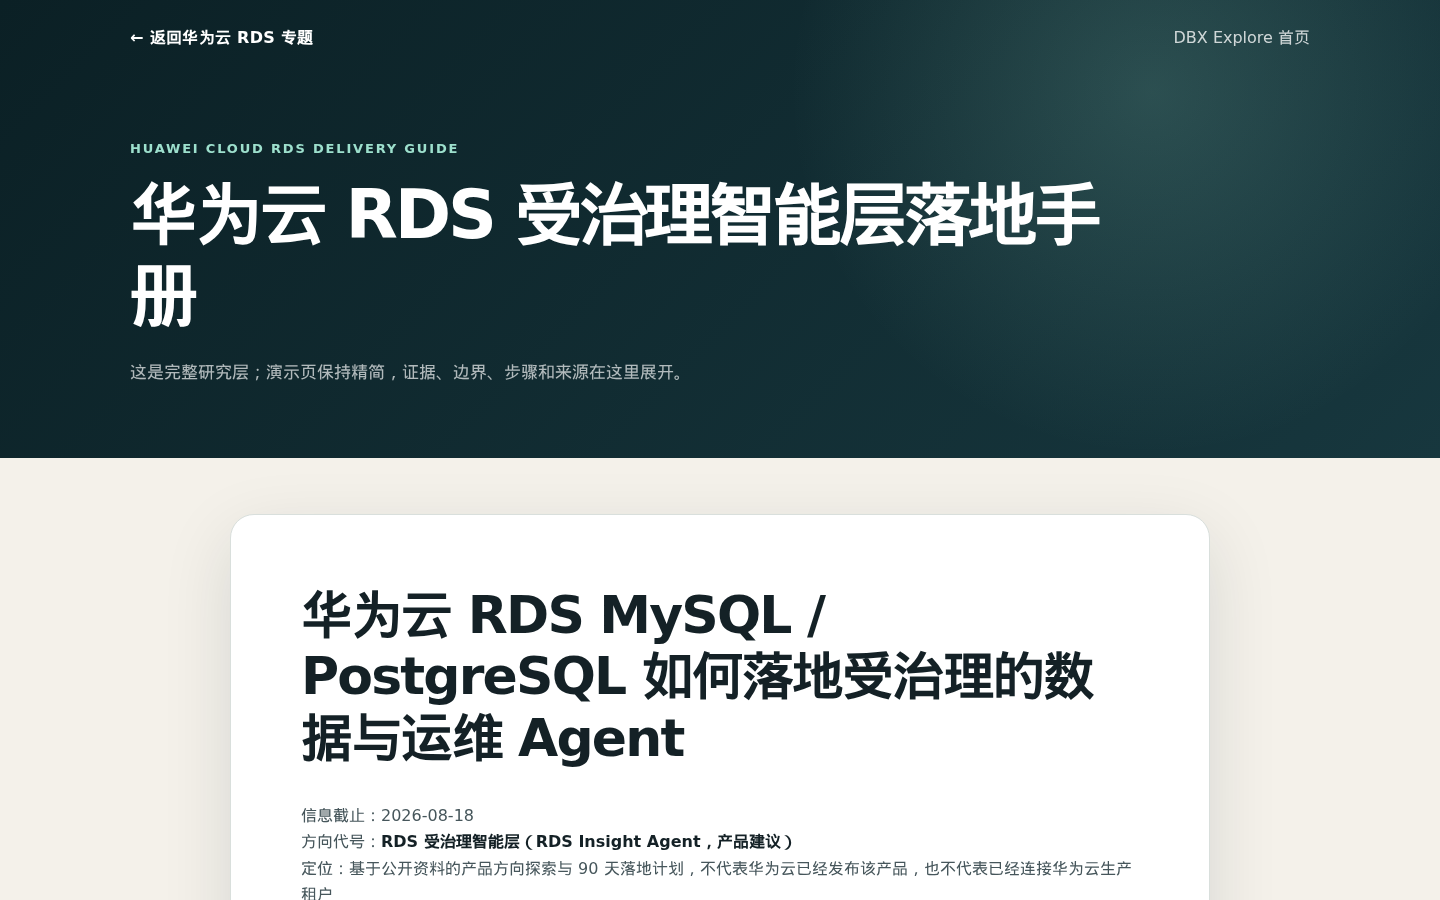
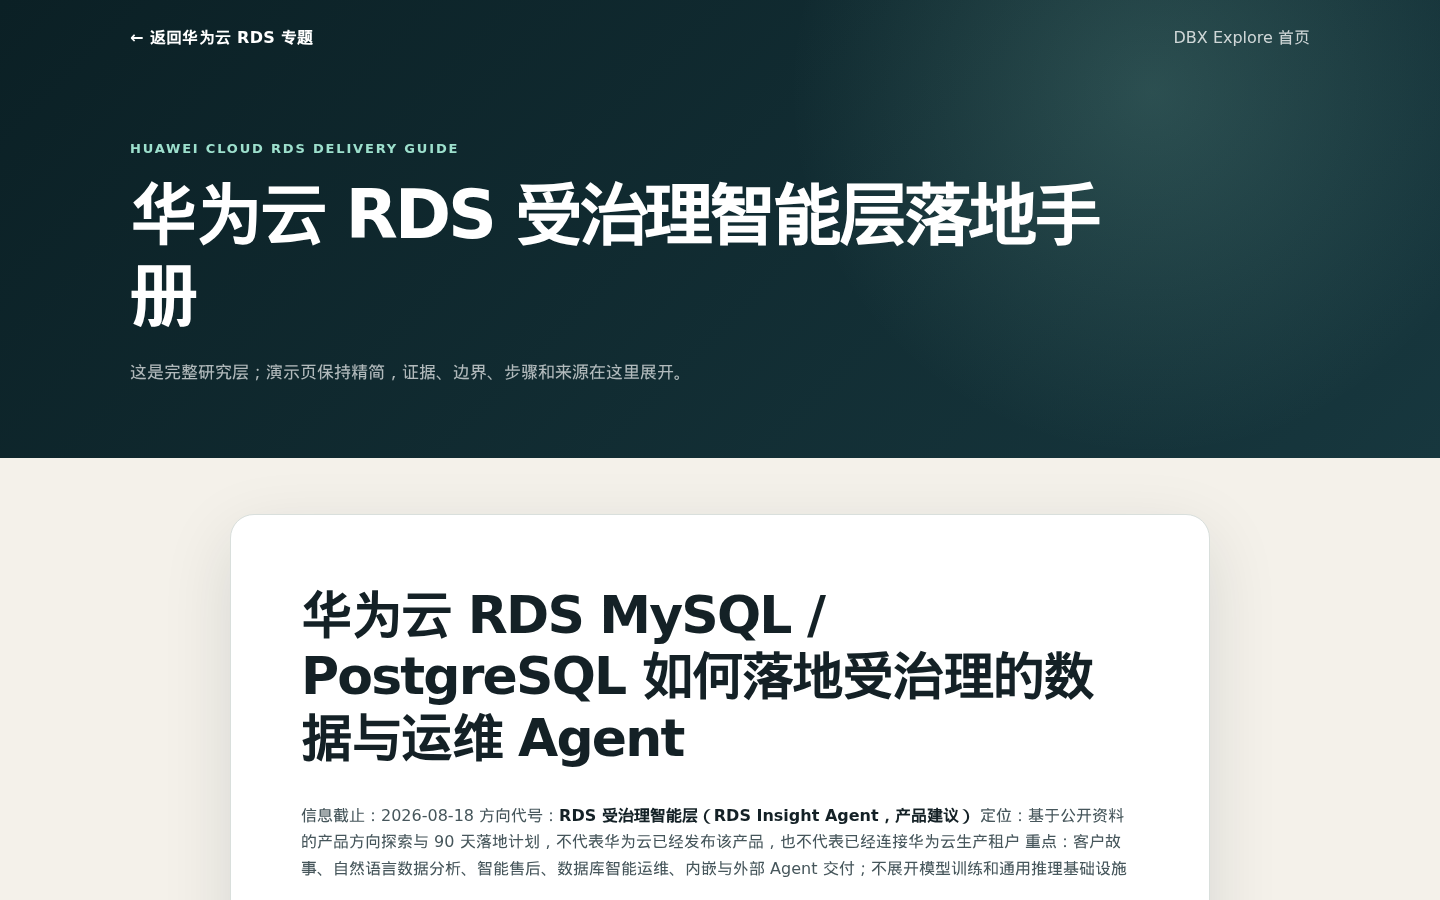
Add Huawei RDS official video walkthroughs

Changed region(s): [[0.1875, 0.8711, 0.7812, 1.0]]

diff --git a/site/details/external-videos.html b/site/details/external-videos.html
@@ -23,7 +23,8 @@
   <main class="shell detail-layout">
     <article class="markdown-body">
 <h1>外部视频索引</h1>
-<p>信息截止：2026-08-17<br>状态：主选链接、发布者、发布日期、时长和适用模块已核验；Delta Lake 视频章节已逐段定位。其余视频在正式公开汇报前仍应由讲解人完整观看一次，避免 2024–2025 画面与 2026 UI 名称差异。</p>
+<p>信息截止：2026-08-18
+状态：主选链接、发布者、发布日期、时长和适用模块已核验；Delta Lake 视频章节已逐段定位。其余视频在正式公开汇报前仍应由讲解人完整观看一次，避免 2024–2025 画面与 2026 UI 名称差异。</p>
 <h2>选择原则</h2>
 <p>每个主要模块优先保留两类视频：</p>
 <ol>
@@ -116,6 +117,22 @@
 <td>不搬数据访问外部数据库/仓库</td>
 <td>链接已核验；正式使用前复看 UI/产品状态</td>
 </tr>
+<tr>
+<td>华为云 RDS MySQL</td>
+<td><a href="https://support.huaweicloud.com/video/mysql-zh.html" target="_blank" rel="noreferrer">RDS for MySQL 产品介绍</a></td>
+<td>华为云</td>
+<td>页面更新 2025-07-01</td>
+<td>领导快速理解产品定位、优势和典型应用</td>
+<td>官方页面 HTTP 200；正式播放前复看</td>
+</tr>
+<tr>
+<td>华为云 RDS 视频总览</td>
+<td><a href="https://support.huaweicloud.com/rds_video/index.html" target="_blank" rel="noreferrer">RDS 视频帮助</a></td>
+<td>华为云</td>
+<td>页面更新 2025-05-15</td>
+<td>MySQL / PostgreSQL 官方视频入口</td>
+<td>官方页面 HTTP 200；目录可能更新</td>
+</tr>
 </tbody></table>
 <h2>已发现的独立候选</h2>
 <table>
@@ -175,6 +192,15 @@
 <li>最后用 <a href="https://www.youtube.com/watch?v=3_TpRj3z_Gs" target="_blank" rel="noreferrer">What is AI/BI Genie?</a> 展示业务用户最终看到的自然语言分析体验。</li>
 </ol>
 <p>这四段外部视频分别说明治理、联邦、CDC 和问答，不代表已经连接本项目账号之外的 RDS、PolarDB 或 TaurusDB。厂商数据库本身的 HA、只读节点和监控边界以对应官方产品文档为准。</p>
+<h3>华为云 RDS 专题的播放组合</h3>
+<p>华为云 RDS 专题按“方案故事 → 官方底座 → 动手验证”组织，避免把一个产品视频包装成完整 Agent 方案：</p>
+<ol>
+<li>先播本地 H1（约 127 秒、中文有声），讲海岚零售事故、双引擎架构、五个拟建产品面、六个 Gate 和建议 KPI；</li>
+<li>领导版接华为云官方 <a href="https://support.huaweicloud.com/video/mysql-zh.html" target="_blank" rel="noreferrer">RDS for MySQL 产品介绍</a>，用官方叙事确认现有数据库服务的定位；</li>
+<li>技术版分别打开 <a href="https://support.huaweicloud.com/rds-mysql_video/index.html" target="_blank" rel="noreferrer">RDS for MySQL 视频帮助</a> 和 <a href="https://support.huaweicloud.com/rds-pg_video/index.html" target="_blank" rel="noreferrer">RDS for PostgreSQL 视频帮助</a>，按当前目录选择操作内容；</li>
+<li>需要实验时进入 <a href="https://developer.huaweicloud.com/techfield/db.html" target="_blank" rel="noreferrer">华为云数据库开发者中心</a>，选择 RDS 连接、快速入门或 DRS 迁移类课程。</li>
+</ol>
+<p>这些华为云官方视频和课程只覆盖当前公开的产品定位、功能与操作材料，不证明 Policy Adapter、Semantic Contract、Query Gateway、Evidence Composer 或 Benchmark/Monitor 已作为统一产品存在。该闭环由本项目提出，并须在目标租户按 G0–G5 验收。</p>
 <h2>按模块的外部视频播放建议</h2>
 <p>同一视频可以覆盖多个模块；“每个模块有外部讲解”不等于必须准备 15 个不同视频。领导会只播放短片段，技术同事可打开完整视频。</p>
 <table>

diff --git a/site/details/huawei-rds-agent-guide.html b/site/details/huawei-rds-agent-guide.html
@@ -854,6 +854,16 @@ tests:
 <li><strong>5:45–7:00，展示 90 天：</strong> G0 价值合同 → G1 安全路径 → G2 治理 → G3 语义 → G4 Agent → G5 试点。</li>
 <li><strong>7:00–8:00，收口：</strong> 分析面零写入；先以客服时间和 DBA MTTR 证明价值，再决定外部 API 和动作自动化。</li>
 </ol>
+<h3>12.1 外部官方视频组合</h3>
+<p>这组视频用于补充“现有产品底座是什么、操作入口在哪里”，不用于证明本文拟议的受治理智能层已经在华为云现网交付：</p>
+<ol>
+<li>先播放本项目 H1（约 127 秒）：由中文配音完整讲述海岚零售事故、复用/打通/新建、双方言、六个 Gate 和建议 KPI；这是方案讲解录屏，不是生产租户实调。</li>
+<li>面向领导播放华为云官方 <a href="https://support.huaweicloud.com/video/mysql-zh.html" target="_blank" rel="noreferrer">RDS for MySQL 产品介绍</a>：快速建立 RDS 定位、价值和典型应用的共同语言。</li>
+<li>面向 MySQL 技术团队打开 <a href="https://support.huaweicloud.com/rds-mysql_video/index.html" target="_blank" rel="noreferrer">RDS for MySQL 视频帮助</a>，按当前目录选择产品介绍或操作指导。</li>
+<li>面向 PostgreSQL 技术团队打开 <a href="https://support.huaweicloud.com/rds-pg_video/index.html" target="_blank" rel="noreferrer">RDS for PostgreSQL 视频帮助</a>，避免用 MySQL 的产品画面代替双引擎差异验证。</li>
+<li>需要动手课时进入 <a href="https://developer.huaweicloud.com/techfield/db.html" target="_blank" rel="noreferrer">华为云数据库开发者中心</a>，选择 RDS 连接、快速入门或 DRS 迁移类课程与实验。</li>
+</ol>
+<p>正式汇报应明确说出三条边界：官方视频证明当前公开的产品定位和操作材料；Policy Adapter、Semantic Contract、Query Gateway、Evidence Composer、Benchmark/Monitor 是本文建议补建的产品面；外部页面的日期、目录和 UI 会变化，试点仍须在 G0/G1 核验目标区域、版本、权限、网络、成本和负载。</p>
 <h2>13. 立项决策清单</h2>
 <h3>建议立项，前提是以下问题都能回答“是”</h3>
 <ul>
@@ -924,6 +934,9 @@ tests:
 <li><a href="https://support.huaweicloud.com/intl/zh-cn/api-iam5/AssumeAgency.html" target="_blank" rel="noreferrer">IAM AssumeAgency</a></li>
 <li><a href="https://support.huaweicloud.com/productdesc-apig/apig-productdesc-pdf.pdf" target="_blank" rel="noreferrer">APIG 产品介绍</a></li>
 <li><a href="https://support.huaweicloud.com/intl/zh-cn/usermanual-apig/apig_03_0052.html" target="_blank" rel="noreferrer">APIG 审计</a></li>
+<li><a href="https://support.huaweicloud.com/rds_video/index.html" target="_blank" rel="noreferrer">RDS 官方视频帮助总入口</a></li>
+<li><a href="https://support.huaweicloud.com/video/mysql-zh.html" target="_blank" rel="noreferrer">RDS for MySQL 产品介绍视频</a></li>
+<li><a href="https://developer.huaweicloud.com/techfield/db.html" target="_blank" rel="noreferrer">华为云数据库开发者中心</a></li>
 </ul>
 
     </article>

diff --git a/site/huawei-rds-agent.html b/site/huawei-rds-agent.html
@@ -247,6 +247,32 @@
           <a class="button outline" href="details/huawei-rds-agent-guide.html">打开逐项研究与来源</a>
         </div>
       </div>
+      <div class="official-video-block">
+        <div class="official-video-intro">
+          <p class="eyebrow">华为云官方外部视频</p>
+          <h3>用官方操作材料补底座，不冒充 Agent 闭环</h3>
+          <p>领导演示先播 H1 讲完整方案，再按受众选择 1–2 个官方入口。官方视频说明现有 RDS 产品和操作路径；本文拟议的 Policy、Semantic、Query、Evidence、Eval 平面仍须按 90 天 Gate 建设和验收。</p>
+        </div>
+        <div class="official-video-grid">
+          <a href="https://support.huaweicloud.com/video/mysql-zh.html">
+            <b>01 · RDS for MySQL 产品介绍</b>
+            <span>适合领导快速理解产品定位、核心优势和典型应用；页面更新于 2025-07-01。</span>
+          </a>
+          <a href="https://support.huaweicloud.com/rds-mysql_video/index.html">
+            <b>02 · MySQL 官方视频帮助</b>
+            <span>面向产品介绍和操作指导；技术演示按当前索引选择具体条目。</span>
+          </a>
+          <a href="https://support.huaweicloud.com/rds-pg_video/index.html">
+            <b>03 · PostgreSQL 官方视频帮助</b>
+            <span>补 PostgreSQL 服务介绍、特性和操作路径，避免只用 MySQL 画面代表双引擎。</span>
+          </a>
+          <a href="https://developer.huaweicloud.com/techfield/db.html">
+            <b>04 · 数据库开发者中心与实验</b>
+            <span>适合技术同事继续看 RDS 连接、快速入门和 DRS 迁移类课程与实验。</span>
+          </a>
+        </div>
+        <p class="official-video-boundary">播放边界：外部页面内容、日期和 UI 可能更新；它们不能证明本方案新增的受治理智能层已经存在，也不能替代目标区域、版本、权限和负载的 G0/G1 实测。</p>
+      </div>
     </section>
 
     <section class="section hwr-sources" id="sources" aria-labelledby="sources-title">
@@ -264,6 +290,7 @@
           <a href="https://support.huaweicloud.com/usermanual-pangulm/pangulm_04_0423.html"><b>智能体开发流程</b><span>知识、插件、工作流、发布与 API</span></a>
           <a href="https://support.huaweicloud.com/intl/zh-cn/api-iam5/AssumeAgency.html"><b>IAM 临时身份</b><span>委托与短期安全凭证</span></a>
           <a href="https://support.huaweicloud.com/productdesc-apig/apig-productdesc-pdf.pdf"><b>APIG</b><span>认证、流控与后端保护</span></a>
+          <a href="https://support.huaweicloud.com/rds_video/index.html"><b>RDS 官方视频帮助</b><span>MySQL / PostgreSQL 产品介绍与操作入口</span></a>
         </div>
         <p class="source-boundary">当前完成的是公开资料核准、架构设计和执行计划；没有连接华为云 RDS 租户，没有做版本/区域/性能/成本实测，也没有真实客户数据。所有 KPI 均为试点建议目标。</p>
       </div>

diff --git a/site/huawei-rds-agent.css b/site/huawei-rds-agent.css
@@ -130,6 +130,17 @@
 .demo-script ol { margin: 35px 0 25px; padding-left: 20px; color: var(--muted); font-size: 14px; }
 .demo-script li + li { margin-top: 9px; }
 
+.official-video-block { margin-top: 22px; padding: 28px; border: 1px solid #c8d9d1; border-radius: 20px; background: #eff7f3; }
+.official-video-intro { display: grid; grid-template-columns: .72fr 1.1fr 1.35fr; gap: 24px; align-items: start; }
+.official-video-intro h3 { margin: 0; font-size: 23px; line-height: 1.2; }
+.official-video-intro > p:last-child { margin: 0; color: var(--muted); font-size: 13px; }
+.official-video-grid { display: grid; grid-template-columns: repeat(4, 1fr); gap: 11px; margin-top: 24px; }
+.official-video-grid a { min-height: 130px; display: flex; flex-direction: column; justify-content: space-between; padding: 18px; border: 1px solid #bfd5ca; border-radius: 14px; color: inherit; text-decoration: none; background: var(--white); }
+.official-video-grid a:hover { border-color: var(--accent); transform: translateY(-2px); }
+.official-video-grid b { color: var(--ink); font-size: 14px; }
+.official-video-grid span { color: var(--muted); font-size: 12px; line-height: 1.55; }
+.official-video-boundary { margin: 18px 0 0; padding-left: 15px; border-left: 3px solid var(--accent); color: var(--muted); font-size: 12px; }
+
 .hwr-sources { background: #e8ede9; }
 .source-grid { display: grid; grid-template-columns: repeat(4, 1fr); gap: 11px; }
 .source-grid a { min-height: 115px; display: flex; flex-direction: column; justify-content: center; padding: 18px; border: 1px solid var(--line); border-radius: 14px; text-decoration: none; background: rgba(255,255,255,.72); }
@@ -139,7 +150,7 @@
 .source-boundary { margin: 20px 0 0; padding-left: 16px; border-left: 3px solid var(--accent); color: var(--muted); font-size: 13px; }
 
 @media (max-width: 1050px) {
-  .hwr-proof, .answer-contract, .scenario-priority, .score-grid, .source-grid { grid-template-columns: repeat(2, 1fr); }
+  .hwr-proof, .answer-contract, .scenario-priority, .score-grid, .source-grid, .official-video-grid { grid-template-columns: repeat(2, 1fr); }
   .delivery-compare { grid-template-columns: repeat(2, 1fr); }
   .gate-detail { grid-template-columns: repeat(2, 1fr); }
 }
@@ -147,7 +158,7 @@
 @media (max-width: 760px) {
   .hwr-hero { min-height: 860px; }
   .hwr-hero-content { padding-top: 48px; }
-  .hwr-proof, .story-layout, .answer-contract, .build-map, .route-summary, .scenario-priority, .engine-compare, .gate-detail, .score-grid, .delivery-compare, .decision-layout, .decision-list, .demo-layout, .source-grid { grid-template-columns: 1fr; }
+  .hwr-proof, .story-layout, .answer-contract, .build-map, .route-summary, .scenario-priority, .engine-compare, .gate-detail, .score-grid, .delivery-compare, .decision-layout, .decision-list, .demo-layout, .source-grid, .official-video-intro, .official-video-grid { grid-template-columns: 1fr; }
   .story-arrow { height: 68px; transform: rotate(90deg); }
   .story-layout > article { min-height: 0; }
   .answer-contract div { min-height: 78px; }

diff --git a/videos/external/README.md b/videos/external/README.md
@@ -1,6 +1,6 @@
 # 外部视频索引
 
-信息截止：2026-08-17  
+信息截止：2026-08-18
 状态：主选链接、发布者、发布日期、时长和适用模块已核验；Delta Lake 视频章节已逐段定位。其余视频在正式公开汇报前仍应由讲解人完整观看一次，避免 2024–2025 画面与 2026 UI 名称差异。
 
 ## 选择原则
@@ -27,6 +27,8 @@
 | Lakebase | [Introduction to Lakebase: OLTP for Data Apps and AI Agents](https://www.youtube.com/watch?v=UQynsu6qklw) | Databricks | 2025-12-22 / 9:49 | Lakebase 定位、Serverless Postgres 与实际应用 | 元数据已核验；待完整观看 |
 | Delta Lake | [Delta Lake on Databricks Demo](https://www.youtube.com/watch?v=BMO90DI82Dc) | Databricks | 约 8 分钟 | Delta 转换、流、ACID、Schema、Time Travel、DML 和优化 | 链接与章节已核验 |
 | Federation | [Lakehouse Federation](https://www.youtube.com/watch?v=vGyXpHTYgrQ) | Databricks | 公开演示 | 不搬数据访问外部数据库/仓库 | 链接已核验；正式使用前复看 UI/产品状态 |
+| 华为云 RDS MySQL | [RDS for MySQL 产品介绍](https://support.huaweicloud.com/video/mysql-zh.html) | 华为云 | 页面更新 2025-07-01 | 领导快速理解产品定位、优势和典型应用 | 官方页面 HTTP 200；正式播放前复看 |
+| 华为云 RDS 视频总览 | [RDS 视频帮助](https://support.huaweicloud.com/rds_video/index.html) | 华为云 | 页面更新 2025-05-15 | MySQL / PostgreSQL 官方视频入口 | 官方页面 HTTP 200；目录可能更新 |
 
 ## 已发现的独立候选
 
@@ -67,6 +69,17 @@
 5. 最后用 [What is AI/BI Genie?](https://www.youtube.com/watch?v=3_TpRj3z_Gs) 展示业务用户最终看到的自然语言分析体验。
 
 这四段外部视频分别说明治理、联邦、CDC 和问答，不代表已经连接本项目账号之外的 RDS、PolarDB 或 TaurusDB。厂商数据库本身的 HA、只读节点和监控边界以对应官方产品文档为准。
+
+### 华为云 RDS 专题的播放组合
+
+华为云 RDS 专题按“方案故事 → 官方底座 → 动手验证”组织，避免把一个产品视频包装成完整 Agent 方案：
+
+1. 先播本地 H1（约 127 秒、中文有声），讲海岚零售事故、双引擎架构、五个拟建产品面、六个 Gate 和建议 KPI；
+2. 领导版接华为云官方 [RDS for MySQL 产品介绍](https://support.huaweicloud.com/video/mysql-zh.html)，用官方叙事确认现有数据库服务的定位；
+3. 技术版分别打开 [RDS for MySQL 视频帮助](https://support.huaweicloud.com/rds-mysql_video/index.html) 和 [RDS for PostgreSQL 视频帮助](https://support.huaweicloud.com/rds-pg_video/index.html)，按当前目录选择操作内容；
+4. 需要实验时进入 [华为云数据库开发者中心](https://developer.huaweicloud.com/techfield/db.html)，选择 RDS 连接、快速入门或 DRS 迁移类课程。
+
+这些华为云官方视频和课程只覆盖当前公开的产品定位、功能与操作材料，不证明 Policy Adapter、Semantic Contract、Query Gateway、Evidence Composer 或 Benchmark/Monitor 已作为统一产品存在。该闭环由本项目提出，并须在目标租户按 G0–G5 验收。
 
 ## 按模块的外部视频播放建议
 

diff --git a/docs/research/06-huawei-cloud-rds-mysql-postgresql-governed-agent.md b/docs/research/06-huawei-cloud-rds-mysql-postgresql-governed-agent.md
@@ -545,6 +545,18 @@ tests:
 7. **5:45–7:00，展示 90 天：** G0 价值合同 → G1 安全路径 → G2 治理 → G3 语义 → G4 Agent → G5 试点。
 8. **7:00–8:00，收口：** 分析面零写入；先以客服时间和 DBA MTTR 证明价值，再决定外部 API 和动作自动化。
 
+### 12.1 外部官方视频组合
+
+这组视频用于补充“现有产品底座是什么、操作入口在哪里”，不用于证明本文拟议的受治理智能层已经在华为云现网交付：
+
+1. 先播放本项目 H1（约 127 秒）：由中文配音完整讲述海岚零售事故、复用/打通/新建、双方言、六个 Gate 和建议 KPI；这是方案讲解录屏，不是生产租户实调。
+2. 面向领导播放华为云官方 [RDS for MySQL 产品介绍](https://support.huaweicloud.com/video/mysql-zh.html)：快速建立 RDS 定位、价值和典型应用的共同语言。
+3. 面向 MySQL 技术团队打开 [RDS for MySQL 视频帮助](https://support.huaweicloud.com/rds-mysql_video/index.html)，按当前目录选择产品介绍或操作指导。
+4. 面向 PostgreSQL 技术团队打开 [RDS for PostgreSQL 视频帮助](https://support.huaweicloud.com/rds-pg_video/index.html)，避免用 MySQL 的产品画面代替双引擎差异验证。
+5. 需要动手课时进入 [华为云数据库开发者中心](https://developer.huaweicloud.com/techfield/db.html)，选择 RDS 连接、快速入门或 DRS 迁移类课程与实验。
+
+正式汇报应明确说出三条边界：官方视频证明当前公开的产品定位和操作材料；Policy Adapter、Semantic Contract、Query Gateway、Evidence Composer、Benchmark/Monitor 是本文建议补建的产品面；外部页面的日期、目录和 UI 会变化，试点仍须在 G0/G1 核验目标区域、版本、权限、网络、成本和负载。
+
 ## 13. 立项决策清单
 
 ### 建议立项，前提是以下问题都能回答“是”
@@ -598,3 +610,6 @@ tests:
 - [IAM AssumeAgency](https://support.huaweicloud.com/intl/zh-cn/api-iam5/AssumeAgency.html)
 - [APIG 产品介绍](https://support.huaweicloud.com/productdesc-apig/apig-productdesc-pdf.pdf)
 - [APIG 审计](https://support.huaweicloud.com/intl/zh-cn/usermanual-apig/apig_03_0052.html)
+- [RDS 官方视频帮助总入口](https://support.huaweicloud.com/rds_video/index.html)
+- [RDS for MySQL 产品介绍视频](https://support.huaweicloud.com/video/mysql-zh.html)
+- [华为云数据库开发者中心](https://developer.huaweicloud.com/techfield/db.html)

diff --git a/evidence/workspace/huawei-rds-agent-validation.md b/evidence/workspace/huawei-rds-agent-validation.md
@@ -12,7 +12,8 @@
 - `site/assets/diagrams/huawei-rds-agent-target-architecture.svg`：目标架构；
 - `site/assets/diagrams/huawei-rds-agent-90-day-roadmap.svg`：90 天六 Gate 路线；
 - `videos/recordings/H1-huawei-rds-governed-agent.mp4`：127.16 秒无声原版；
-- `videos/recordings/zh-voice/H1-huawei-rds-governed-agent.mp4`：127.16 秒普通话有声版。
+- `videos/recordings/zh-voice/H1-huawei-rds-governed-agent.mp4`：127.16 秒普通话有声版；
+- 专题页、完整手册和 `videos/external/README.md`：华为云 RDS MySQL/PostgreSQL 官方视频与数据库实验入口，并明确“产品底座证据 ≠ 拟议 Agent 闭环已上线”。
 
 ## 内容边界检查
 
@@ -45,6 +46,18 @@ node scripts/validate_site.mjs http://127.0.0.1:8765/site/details/huawei-rds-age
 - 1440px 页面无横向溢出；390px 手机页面 `scrollWidth=clientWidth=390`；
 - 页面正文未发现原始 `**` Markdown 标记；
 - 页面正文未发现用户邮箱或私有 Databricks 工作区主机名。
+
+## 华为云官方外部视频入口检查
+
+2026-08-18 以 `curl -L --max-time 20` 检查，以下五个官方页面全部返回 HTTP 200：
+
+- `https://support.huaweicloud.com/rds_video/index.html`；
+- `https://support.huaweicloud.com/video/mysql-zh.html`；
+- `https://support.huaweicloud.com/rds-mysql_video/index.html`；
+- `https://support.huaweicloud.com/rds-pg_video/index.html`；
+- `https://developer.huaweicloud.com/techfield/db.html`。
+
+新增视频区经浏览器检查包含 4 个外部官方链接；1440px 和 390px 页面均无横向溢出，手机端 `scrollWidth=clientWidth=390`。这些外部链接只作为现有 RDS 产品定位、操作帮助和实验入口，不作为 Policy / Semantic / Query / Evidence / Eval 平面已交付的证据。
 
 ## H1 中文音轨检查
 

diff --git a/index.md b/index.md
@@ -9,7 +9,7 @@
 1. [领导演示首页](https://zcimon57-svj.github.io/databricks-lakehouse-agent-demo/site/index.html)：先建立“接入、Delta、治理、计算、消费”的全景；
 2. [Genie 深度演示](https://zcimon57-svj.github.io/databricks-lakehouse-agent-demo/site/genie.html)：讲业务问答、实现、Monitor/Benchmark 和多种入口；
 3. [云数据库到数据 Agent](https://zcimon57-svj.github.io/databricks-lakehouse-agent-demo/site/database-agent.html)：回答 RDS、PolarDB、TaurusDB 类产品还缺什么；
-4. [华为云 RDS 受治理智能层](https://zcimon57-svj.github.io/databricks-lakehouse-agent-demo/site/huawei-rds-agent.html)：用客户故事讲清 RDS MySQL/PG 怎么补能力、怎么做 90 天 MVP；
+4. [华为云 RDS 受治理智能层](https://zcimon57-svj.github.io/databricks-lakehouse-agent-demo/site/huawei-rds-agent.html)：用客户故事讲清 RDS MySQL/PG 怎么补能力、怎么做 90 天 MVP，并配套 H1 中文录屏与华为云官方视频入口；
 5. [录屏与中文讲稿](https://zcimon57-svj.github.io/databricks-lakehouse-agent-demo/site/details/recordings.html)：按模块选择 14 段有声视频；
 6. [外部视频索引](https://zcimon57-svj.github.io/databricks-lakehouse-agent-demo/site/details/external-videos.html)：按听众选取官方或独立讲解片段。
 

diff --git a/STATE.md b/STATE.md
@@ -45,7 +45,7 @@ Updated: 2026-08-18
 - Genie long-form recordings: G1 business/multi-use 61.25s, G2 authoring/Monitor/Benchmark 82.75s, G3 embedded/API/multi-Agent architecture 71.00s.
 - Cloud-database architecture recording: D1 capability stack/integration routes/embedded-vs-external/G0–G8 78.80s; explicitly labeled as architecture demonstration, not production database validation.
 - Huawei Cloud RDS direction recording: H1 customer story/reuse-connect-build/target architecture/scenarios/MySQL-PG slices/six Gates/KPIs 127.16s; explicitly labeled as a public-source architecture proposal, not Huawei Cloud production validation.
-- Official and independent external-video candidates curated by module.
+- Official and independent external-video candidates curated by module；华为云 RDS 专题另提供 MySQL 产品介绍、MySQL/PostgreSQL 视频帮助和数据库开发者实验入口，并与拟议 Agent 闭环明确分层。
 - Fourteen Mandarin narrated derivatives generated from 73 timed segments; silent originals remain unchanged, and the site now defaults to the narrated files.
 
 ## Finalization result

diff --git a/README.md b/README.md
@@ -19,7 +19,7 @@
 - Genie 的业务问答、Sources、Instructions、可信示例、Monitor、Benchmark 和多轮使用方式；
 - 工作区内嵌、iframe、Conversation API、Agent API/SSE 与外部多 Agent 的能力和责任差异；
 - RDS MySQL/PostgreSQL、PolarDB、TaurusDB 类产品接入 Genie 类能力时，需要补齐的 Unity Catalog-like、语义、可信 SQL、评测、审计和动作网关。
-- 华为云 RDS MySQL / PostgreSQL 专项：以客户事故故事串起 RDS、DAS、DRS、DataArts、智能体平台、IAM 与 APIG，给出复用/打通/新建矩阵、双引擎切片、六个 Gate 和 90 天 MVP 目标。
+- 华为云 RDS MySQL / PostgreSQL 专项：以客户事故故事串起 RDS、DAS、DRS、DataArts、智能体平台、IAM 与 APIG，给出复用/打通/新建矩阵、双引擎切片、六个 Gate、90 天 MVP 目标和华为云官方外部视频组合。
 
 ## 主要入口
 
